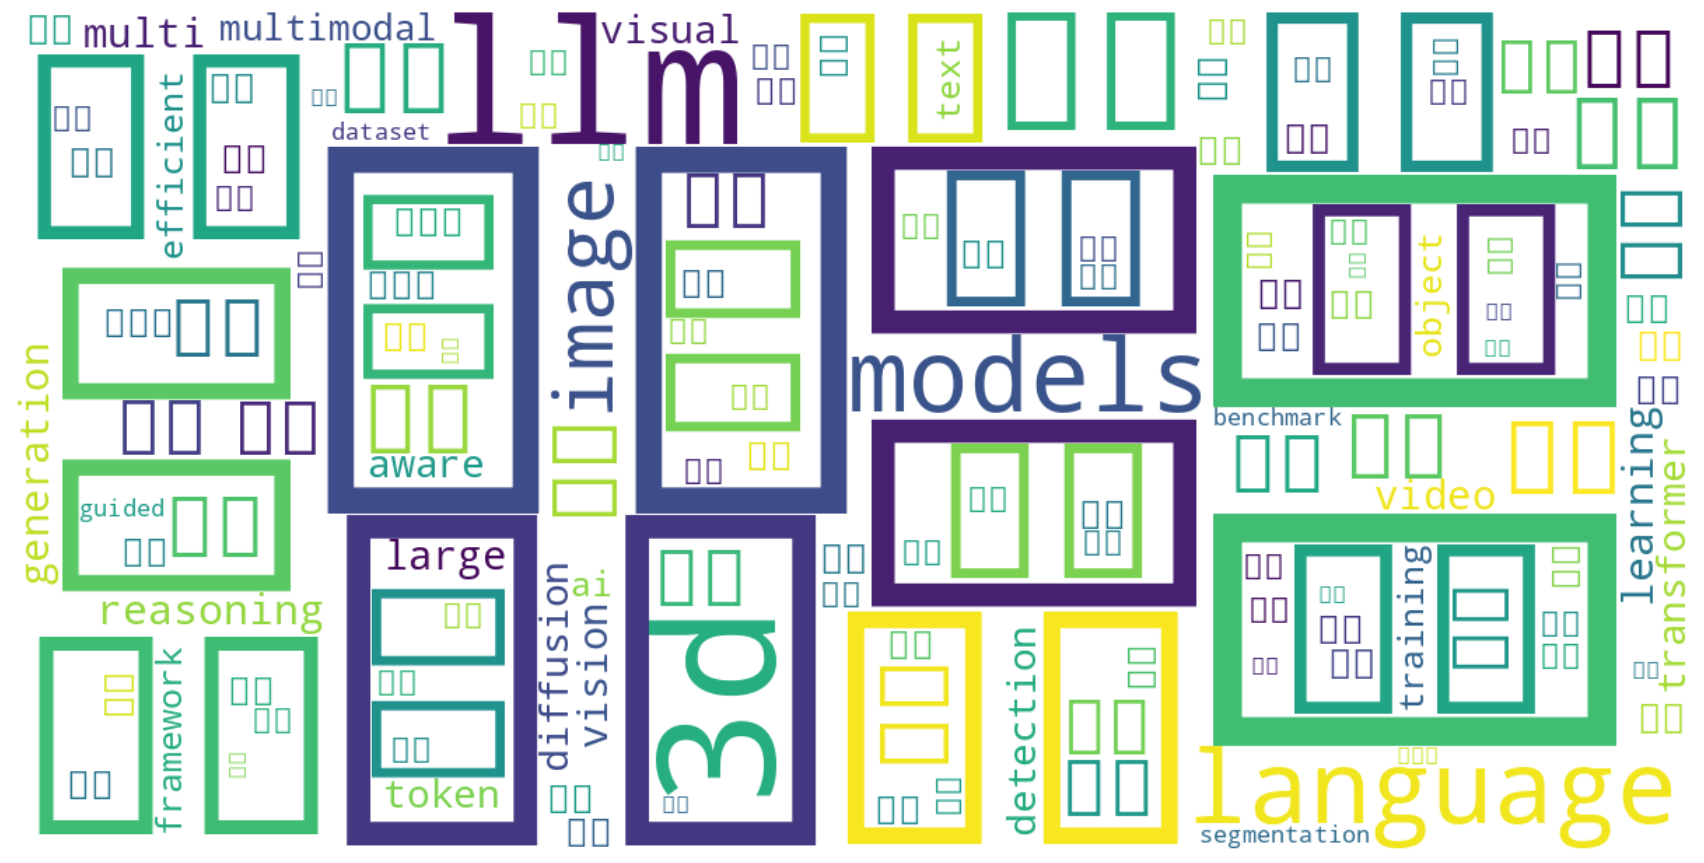
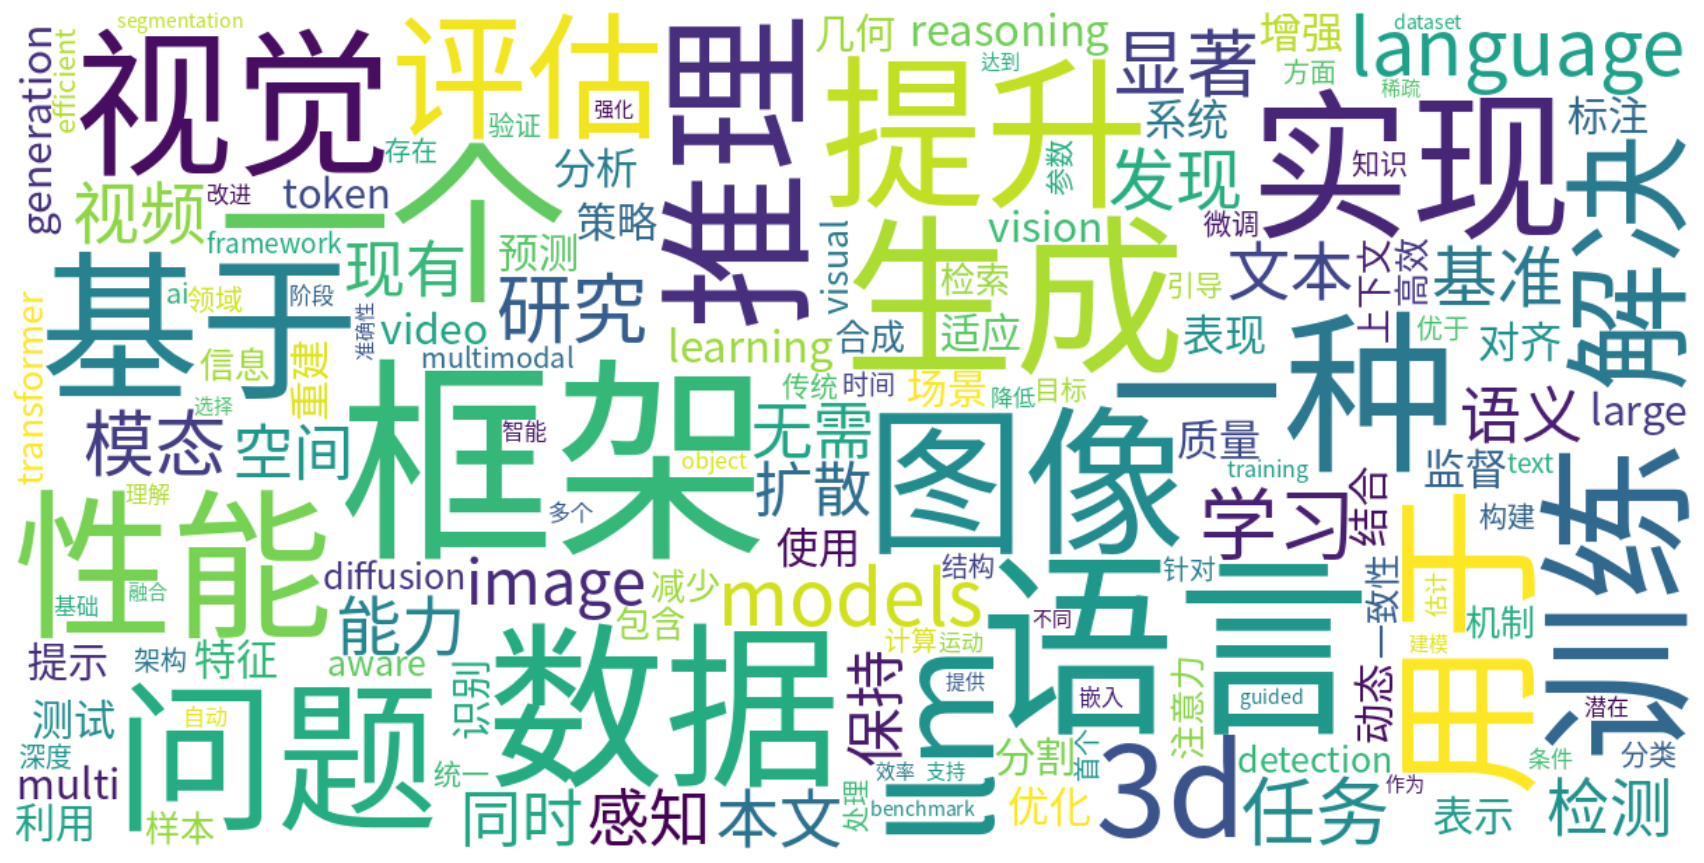
update: monthly review 2026-03

diff --git a/data/monthly/2026-02.md b/data/monthly/2026-02.md
@@ -27,10 +27,10 @@
 
 | Week | Papers | Top Research Topics |
 | ---- | -----: | ------------------- |
-| 2026-W06 | 534 | LLM Security and Jailbreaking · Long Context and Efficient Attention Mechanisms · Multimodal and Vision-Language Models · Multi-Agent and Debate Systems · 3D Scene Understanding and Generation |
-| 2026-W07 | 690 | Multimodal Large Language Models · 3D Reconstruction and Generation · Large Language Model Alignment and Safety · AI for Healthcare and Medicine · Autonomous Driving and Robotics |
-| 2026-W08 | 512 | Large Language Model (LLM) Evaluation and Benchmarking · Multimodal and Cross-modal Learning · Parameter-Efficient Fine-Tuning (PEFT) · Retrieval-Augmented Generation (RAG) · Model Robustness and Bias Correction |
-| 2026-W09 | 591 | Video Understanding and Description · Multimodal Large Language Models · 3D Hand and Action Modeling · Medical Image Analysis and Diagnosis · Large Language Model Evaluation and Reliability |
+| 2026-W06 | 534 | Large Language Model Security and Jailbreaking · Efficient Long-Context Attention Mechanisms · Multimodal Model Evaluation and Benchmarking · Multimodal Reasoning and Visual Language Models · Multimodal Generation and Editing |
+| 2026-W07 | 690 | Multimodal Large Language Models · 3D Reconstruction and Generation · Large Language Model Alignment and Safety · AI for Healthcare and Medicine · Unsupervised and Self-Supervised Learning |
+| 2026-W08 | 512 | Large Language Model (LLM) Efficiency & Adaptation · Multimodal & Cross-Modal Learning · Model Evaluation & Benchmarking · Bias Correction & Robustness in AI · Efficient Model Training & Knowledge Distillation |
+| 2026-W09 | 591 | Video Understanding and Description · 3D Hand and Action Modeling · Multimodal Large Language Models · Medical Image Analysis and Diagnosis · Large Language Model Evaluation and Analysis |
 
 ---
 
@@ -38,34 +38,41 @@
 
 # 2026年2月 arXiv 月度研究趋势分析
 
-## 1. 本月整体研究格局
-2026年2月，arXiv 共收录 **2327篇** 论文，延续了以计算机科学为核心的分布态势。从领域分布看，**计算机视觉（cs.CV）** 以 **1447篇** 的绝对优势占据主导地位，占比超过62%；**计算语言学（cs.CL）** 以 **880篇** 紧随其后。两者合计占比超过全部论文的 **90%**，显示出人工智能，尤其是视觉与语言两大方向，仍是当前学术产出的绝对重心。月度论文数量保持稳定，周均约500-700篇，显示出持续活跃的研究产出节奏。
+## 1. 本月整体研究态势
 
-## 2. 主要研究趋势与热点分析
-本月的研究热点高度集中于 **多模态大模型** 与 **大语言模型（LLM）** 的深化与拓展。具体表现为以下几个核心趋势：
+2026年2月，arXiv平台共收录**2327篇**预印本论文，整体呈现高度活跃态势。从学科分布看，**计算机视觉（cs.CV）** 以**1447篇**的绝对优势占据主导地位，占比超过62%，反映出视觉与多模态研究仍是当前AI领域的核心驱动力。**计算语言学（cs.CL）** 以**880篇**紧随其后，两大领域合计占比近全部论文的**三分之二**，凸显了“视觉+语言”双轮驱动的技术格局。本月论文数量分布较为均衡，周均约580篇，其中第二周（W07）达到峰值690篇，显示月中为成果集中发布期。
 
-- **多模态融合成为主流范式**：无论是“多模态大语言模型（MLLM）”、“视觉-语言模型”，还是“文本-视觉生成与编辑”，都表明研究重心从单一模态向跨模态理解与生成迁移。模型不仅需要理解文本，还需处理图像、视频、3D场景乃至医疗影像，实现真正的“全能”感知。
-- **大模型的安全、评估与效率并重**：在模型能力飞速提升的同时，**LLM安全与越狱（Jailbreaking）**、**模型对齐与安全性**、**评估与可靠性** 成为高频关键词。这反映出学界在追求性能的同时，对模型的可靠性、偏见、鲁棒性及社会影响的关注度显著提升。同时，**参数高效微调（PEFT）**、**知识蒸馏** 与 **模型压缩** 等方向持续活跃，旨在降低大模型的部署与应用门槛。
-- **从静态到动态，从2D到3D的感知升级**：研究内容明显从图像向 **视频理解与描述**、**3D重建与生成**、**3D场景/手部/动作建模** 等更复杂、动态的视觉领域深入。这预示着下一代AI系统需要具备对动态世界进行结构化理解和生成的能力。
+## 2. 主要研究热点分析
 
-## 3. 研究热点的周度演变叙事
-本月研究热点的演变呈现清晰的脉络：
+本月研究呈现出 **“多模态深化”** 与 **“大模型系统化治理”** 两条鲜明主线：
 
-- **第一周（W06）**：奠定了本月基调，**LLM安全**与**长上下文高效注意力**是语言侧的焦点，而视觉侧则开启了 **3D场景理解** 与 **多模态模型** 的议题。**多智能体与辩论系统** 的浮现，暗示了复杂交互与决策的研究萌芽。
-- **第二周（W07）**：**多模态大模型（MLLM）** 跃居核心，与 **3D内容生成**、**AI医疗**、**自动驾驶** 等重大应用领域紧密结合。**无监督/自监督学习** 的再次凸显，表明在数据标注瓶颈下，学界仍在探索更高效的学习范式。
-- **第三周（W08）**：进入 **“反思与优化”** 阶段。热点集中于 **LLM评估与基准测试**、**模型鲁棒性与纠偏**，以及 **RAG（检索增强生成）** 和 **PEFT** 等提升模型实用性的技术。这可以看作是对前两周模型能力扩张的一次系统性检验与效率提升。
-- **第四周（W09）**：在评估基础上，研究向更具体的 **视频理解**、**3D手部动作**、**医疗影像分析** 等纵深应用场景落地。**文本-视觉生成与编辑** 热度不减，显示出强大的应用需求牵引。
+- **多模态大模型（MLLM）持续领跑**：作为贯穿四周的稳定热点，研究重点从早期的架构探索转向**评测基准、长上下文处理、跨模态推理与生成编辑**等深度应用。视觉-语言模型的性能评估、可控生成、3D重建与生成（尤其是3D手部与动作建模）成为焦点，表明技术正从“可用”向“可靠、易控、高保真”演进。
+
+- **大模型安全与效率并重**：模型安全（特别是**越狱攻击与防御、价值观对齐**）在月初（W06）受到集中关注，随后与**模型效率**（高效注意力、知识蒸馏、轻量化适配）主题紧密交织。这反映出社区在追求能力突破的同时，对模型的**实用性、可控性及部署成本**的关注度显著提升。
+
+- **垂直领域渗透加速**：**AI+医疗**（医学影像分析、辅助诊断）与**AI for Science**（科学计算、地理空间应用）在月中下旬持续涌现，表明大模型与领域知识结合的应用落地进入加速期。
+
+## 3. 研究主题的周度演变脉络
+
+本月研究热点呈现清晰的 **“安全启幕 → 多模态与医疗聚焦 → 效率与评估深化 → 视频与3D应用崛起”** 的演进路径：
+
+- **第一周（W06）** 以 **“大模型安全”** 和 **“高效长上下文机制”** 开局，奠定了本月对模型**可靠性**和**计算可行性**的双重关切基础。
+- **第二周（W07）** 热点明显拓宽，**多模态大模型（MLLM）** 成为最突出标签，同时**3D内容生成**与**AI医疗**研究大量涌现，显示技术向更复杂模态和关键领域快速延伸。
+- **第三周（W08）** 主题进入整合与反思期，**模型评估、偏见纠正、鲁棒性**等治理议题，与**高效训练、知识蒸馏**等效率议题并列，研究视角更趋系统化。
+- **第四周（W09）** 应用前沿特征明显，**视频理解与描述、3D手部动作建模**成为新高地，表明动态视觉理解和精细物理交互成为多模态研究的新前沿。
 
 ## 4. 新兴与值得关注的方向
-- **具身智能与机器人学**：虽然“自动驾驶与机器人”仅在W07作为热点出现，但其与3D感知、视频理解、多模态指令跟随的结合，是通向具身AI的关键路径，预计将持续发酵。
-- **科学智能（AI for Science）**：**AI在医疗健康与医学** 中的高频出现（W07, W09），是AI向生物医学等传统科学领域深度渗透的典型代表，这一趋势有望扩展至更多科学发现场景。
-- **复杂系统与协作智能**：早期出现的 **多智能体与辩论系统** 虽未持续占据热点头条，但它是解决复杂任务、提升模型可靠性与决策透明度的潜在重要途径，值得长期关注。
+
+- **动态与3D视觉理解成为新前沿**：月末**视频理解**和**3D手部动作建模**的集中爆发，预示着多模态研究正从静态图像向动态、结构化、具身交互场景深度拓展，这可能为机器人、元宇宙、沉浸式媒体带来新突破。
+- **评估科学日益重要**：针对大模型和多模态模型的**系统性评测与分析**独立成为热点，标志着领域从“追求指标”进入“科学评估、理解局限”的新阶段。
+- **领域大模型（Domain LLM）深化**：在医疗、科研、地理等垂直领域的应用不再停留于概念验证，而是深入具体任务（如诊断、地理分析），**领域知识与大模型能力的深度融合**是关键挑战与趋势。
 
 ## 5. 结论与展望
-2026年2月的研究图景清晰地描绘了AI领域的发展路径：**以多模态大模型为核心引擎，驱动对复杂动态世界的感知与生成能力升级，同时并行开展模型安全性、可靠性评估与效率优化**。研究呈现出“能力拓展”与“治理优化”双线并进、相互促进的健康发展态势。
 
-展望未来，研究将继续向 **三维化、动态化、专业化（如医疗）** 深入，同时，如何将强大的多模态能力安全、可靠、高效地嵌入 **物理世界（机器人）** 和 **专业领域**，将成为下一阶段的关键挑战与机遇。模型的可信评估、对齐与价值校准，也将从纯技术问题演变为贯穿研究全流程的核心议题。
+2026年2月的研究图景清晰地表明，人工智能研究已进入 **“多模态深度融合”** 与 **“大模型系统化工程”** 并行的新阶段。技术发展的重心正从单一模型能力的突破，转向**复杂模态的可靠理解与生成、模型的安全可控、高效部署以及在重要垂直领域的价值深挖**。
+
+展望未来，**视频/3D等多维信号的理解与生成、具身智能、以及贯穿模型全生命周期的评估与治理体系**，将成为关键增长点。同时，如何将强大的基础模型能力，高效、安全、负责任地转化为医疗、科研等领域的实际生产力，将是接下来产学研共同关注的核心命题。研究社区在追求性能边界的同时，对**可靠性、公平性、效率与成本**的均衡考量，将成为主导下一轮创新浪潮的重要基调。
 
 ---
 
-*Generated automatically on 2026-03-14 02:52 UTC*
+*Generated automatically on 2026-03-14 03:15 UTC*
